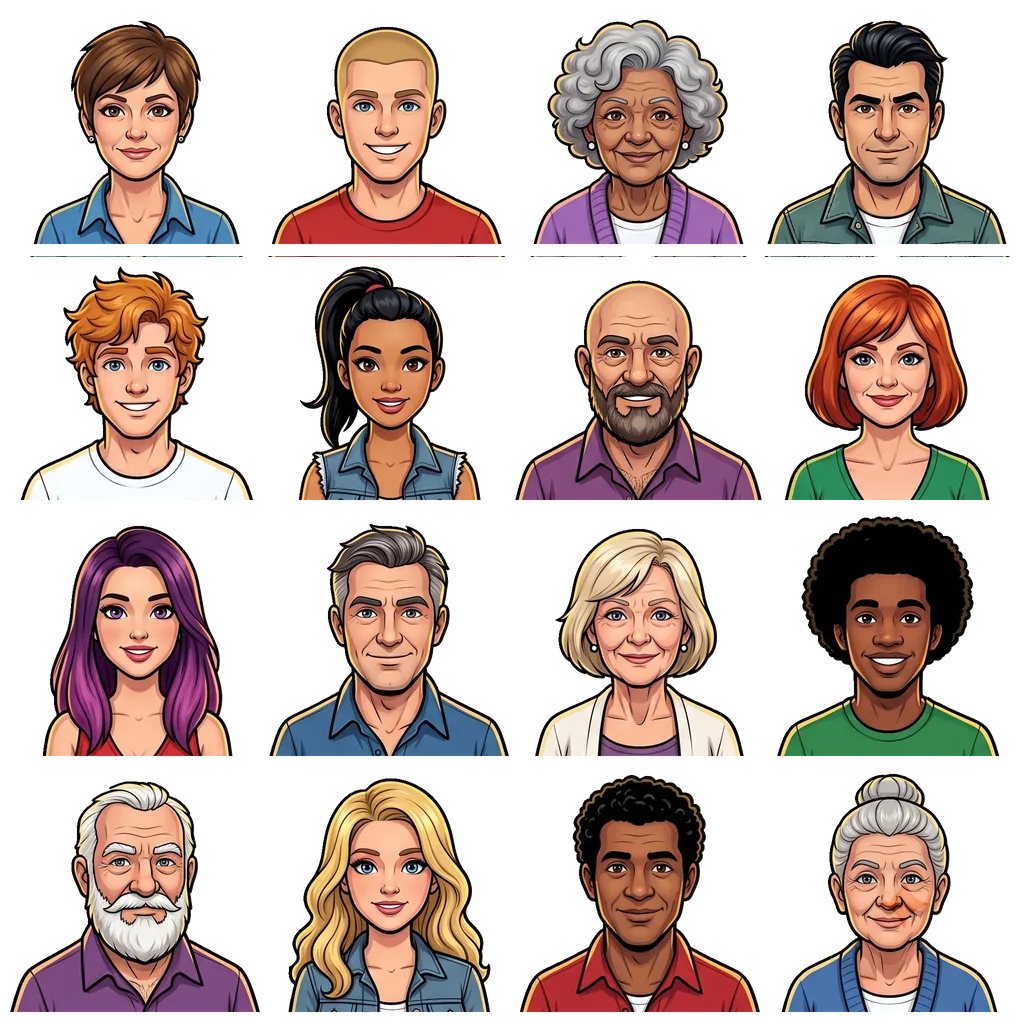
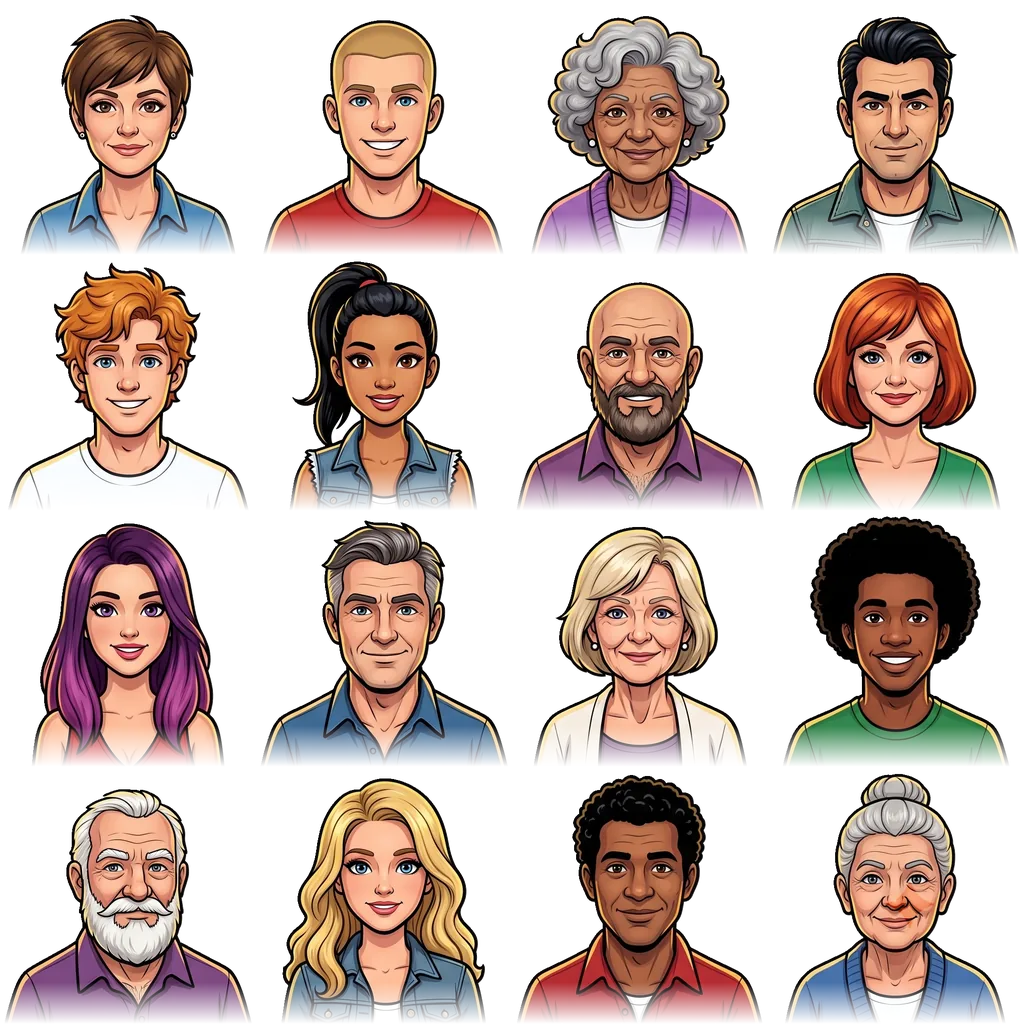
v13.1: «Найди своих»: нарезка гостей по контурам, низ бюста растворяется, крупнее толпа на узких экранах, HUD не залезает под звук, компактнее меню

diff --git a/index.html b/index.html
@@ -131,8 +131,8 @@ h2{font-size:clamp(28px,9vw,44px);color:var(--fg)}
 .mc{position:relative;background:var(--card);border:2px solid var(--border);border-radius:16px;padding:7px 5px 9px;color:var(--fg);display:flex;flex-direction:column;align-items:center;gap:3px;box-shadow:0 5px 0 #000;cursor:pointer;font-family:var(--body);text-align:center;min-width:0;transition:transform .07s cubic-bezier(.2,.8,.3,1.4)}
 .mc:active{transform:translateY(3px)}
 .mc.hot{border-color:var(--y);box-shadow:0 5px 0 #9a7908,0 0 22px rgba(245,194,27,.28)}
-.mc .fimg{width:100%;aspect-ratio:4/3;border-radius:10px;background-color:#221a10;background-repeat:no-repeat;background-size:400% 400%;background-position:33.33% 33.33%}
-.mc img{width:100%;aspect-ratio:4/3;object-fit:cover;border-radius:10px;background:#221a10;display:block}
+.mc .fimg{width:100%;aspect-ratio:16/10;border-radius:10px;background-color:#221a10;background-repeat:no-repeat;background-size:400% 400%;background-position:33.33% 33.33%}
+.mc img{width:100%;aspect-ratio:16/10;object-fit:cover;border-radius:10px;background:#221a10;display:block}
 .mc img.spr{object-fit:contain;padding:10px;background:radial-gradient(circle at 50% 55%,rgba(245,194,27,.35),#221a10 70%)}
 .mc b{font-family:var(--head);font-weight:400;font-size:clamp(15px,4.6vw,21px);text-transform:uppercase;line-height:.95;color:var(--y);margin-top:3px}
 .mc span{font-size:12px;line-height:1.15;color:var(--muted)}
@@ -280,7 +280,7 @@ createBufferSource();b.buffer=p;b.connect(X.destination);b.start()}
 'use strict';
 var URL_BASE=location.origin+location.pathname;
 var PARTY_DAY='2026-09-11', PARTY_ON=false;
-var GAME_LEN=60, DUEL_LEN=45, DUEL_DAY='2026-10-03', SHOT_AT=2200, VERSION='v13.0', ENDPOINT='https://script.google.com/macros/s/AKfycbzXKfPXL9o4RNstwBzUZIPGM1MzSAbnZPJqXy8Um4MGTa8CBSj90H8sMGHMFsvJb30PjQ/exec', LIVES=5, TG_URL='https://t.me/staffbarmur';
+var GAME_LEN=60, DUEL_LEN=45, DUEL_DAY='2026-10-03', SHOT_AT=2200, VERSION='v13.1', ENDPOINT='https://script.google.com/macros/s/AKfycbzXKfPXL9o4RNstwBzUZIPGM1MzSAbnZPJqXy8Um4MGTa8CBSj90H8sMGHMFsvJb30PjQ/exec', LIVES=5, TG_URL='https://t.me/staffbarmur';
 var ASSETS={"gorilla": "a/gorilla.webp", "squirrel": "a/squirrel.webp", "shots": ["a/shot0.webp", "a/shot1.webp", "a/shot2.webp", "a/shot3.webp", "a/shot4.webp", "a/shot5.webp"], "bg": "a/bg.webp", "p2_f0": "a/d0f.webp", "p2_e0": "a/d0e.webp", "p2_f1": "a/d1f.webp", "p2_e1": "a/d1e.webp", "p2_f2": "a/d2f.webp", "p2_e2": "a/d2e.webp", "p2_f3": "a/d3f.webp", "p2_e3": "a/d3e.webp", "p2_f4": "a/d4f.webp", "p2_e4": "a/d4e.webp", "p2_f5": "a/d5f.webp", "p2_e5": "a/d5e.webp", "p2_gor": "a/gor.webp", "p2_sqpush": "a/sqpush.webp", "p2_sqlaugh": "a/sqlaugh.webp", "f_base": "a/f_base.webp", "f_svoi": "a/f_svoi.webp", "f_hat": "a/f_hat.webp", "f_tie": "a/f_tie.webp"};
 var mode='shot', lives=LIVES, caught=0, roundLen=GAME_LEN;
 var rng=Math.random, duelSeed='', duelDefault=true, duelVs=null, DUEL_ON=false;
@@ -833,8 +833,8 @@ function findReset(){F={lv:-1,ph:'banner',t:0,tLeft:FIND_LEN,crowd:[],found:0,ne
 function findLevel(){
   F.lv++;
   if(F.lv>=FL.length){var bonus=Math.round(F.tLeft)*20;if(bonus){score+=bonus;float(W/2,H*0.4,'ЗАПАС ВРЕМЕНИ +'+bonus,'#F5C21B',true)}F.ph='done';finish();return}
-  var L=FL[F.lv],top=SAT+104,bot=H-SAB-8,ah=bot-top,cols=Math.max(3,Math.round(Math.sqrt(L.n*W/ah))),rows=Math.ceil(L.n/cols);
-  var cw=W/cols,chh=ah/rows,size=Math.min(cw*1.3,chh*1.22),slots=[],pids=shufA([0,1,2,3,4,5,6,7,8,9,10,11,12,13,14,15]);
+  var L=FL[F.lv],top=SAT+104,bot=H-SAB-8,ah=bot-top,cols=Math.max(3,Math.min(W<400?6:7,Math.round(Math.sqrt(L.n*W/ah)))),rows=Math.ceil(L.n/cols);
+  var cw=W/cols,chh=ah/rows,size=Math.min(cw*1.34,chh*1.3),slots=[],pids=shufA([0,1,2,3,4,5,6,7,8,9,10,11,12,13,14,15]);
   for(var r=0;r<rows;r++)for(var c=0;c<cols;c++)slots.push([r,c]);
   shufA(slots);slots=slots.slice(0,L.n);
   var st=[];for(var i=0;i<L.n;i++)st.push(i<L.s?'svoi':(i<L.s+L.f?(i%2?'hat':'tie'):'base'));shufA(st);
@@ -906,7 +906,7 @@ function findHud(){
   var sc=1+hudPulse*0.18;ctx.save();ctx.translate(W-16,top);ctx.scale(sc,sc);ctx.fillStyle='#000';ctx.fillText(score,2,3);ctx.fillStyle='#F5C21B';ctx.fillText(score,0,0);ctx.restore();
   var lv=F?Math.max(0,Math.min(F.lv,FL.length-1)):0;
   ctx.textAlign='left';ctx.font='400 '+Math.round(fs*0.56)+'px Adigiana, Impact, sans-serif';ctx.fillStyle='#F4F1EA';ctx.fillText('ЗАЛ '+(lv+1)+'/'+FL.length,16,top+2);
-  ctx.font='700 15px system-ui, sans-serif';ctx.fillStyle='#F5C21B';ctx.fillText('Своих найдено: '+(F?F.found:0)+' из '+(F?F.need:FL[0].s),16,top+fs*0.56+8);
+  ctx.font='700 15px system-ui, sans-serif';ctx.fillStyle='#F5C21B';ctx.fillText('Свои: '+(F?F.found:0)+' из '+(F?F.need:FL[0].s),16,top+fs*0.56+8);
   var tl=F?F.tLeft:FIND_LEN,urgent=tl<=10,bw=W-32,by=top+fs+30;ctx.fillStyle='rgba(255,255,255,0.12)';rr(ctx,16,by,bw,5,2);ctx.fill();ctx.fillStyle=urgent?'#FF5A4E':'#F5C21B';rr(ctx,16,by,bw*Math.max(0,tl/FIND_LEN),5,2);ctx.fill();
   ctx.font='700 13px system-ui, sans-serif';ctx.textAlign='right';ctx.fillStyle=urgent?'#FF5A4E':'#A39F95';ctx.fillText(Math.ceil(tl)+' с',W-16,by+9);
   ctx.restore();
